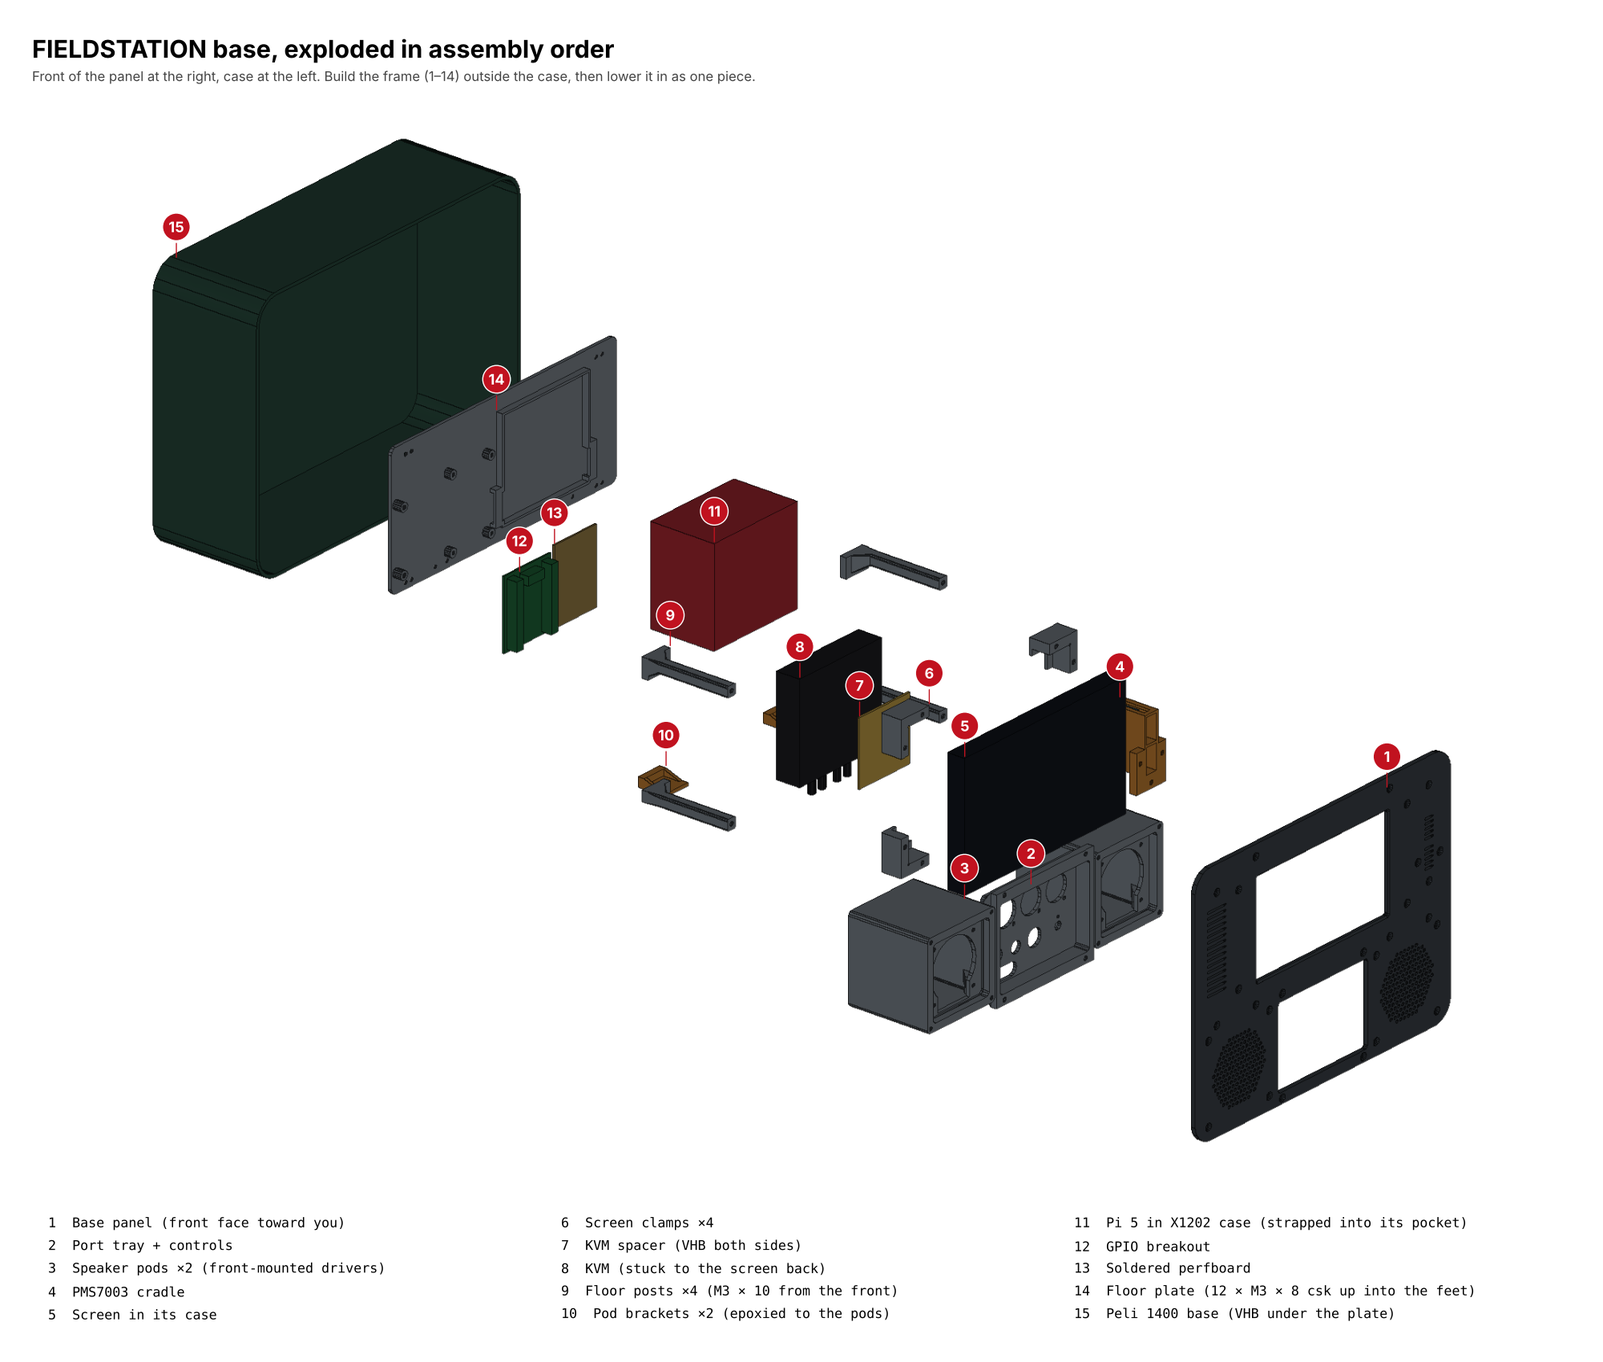
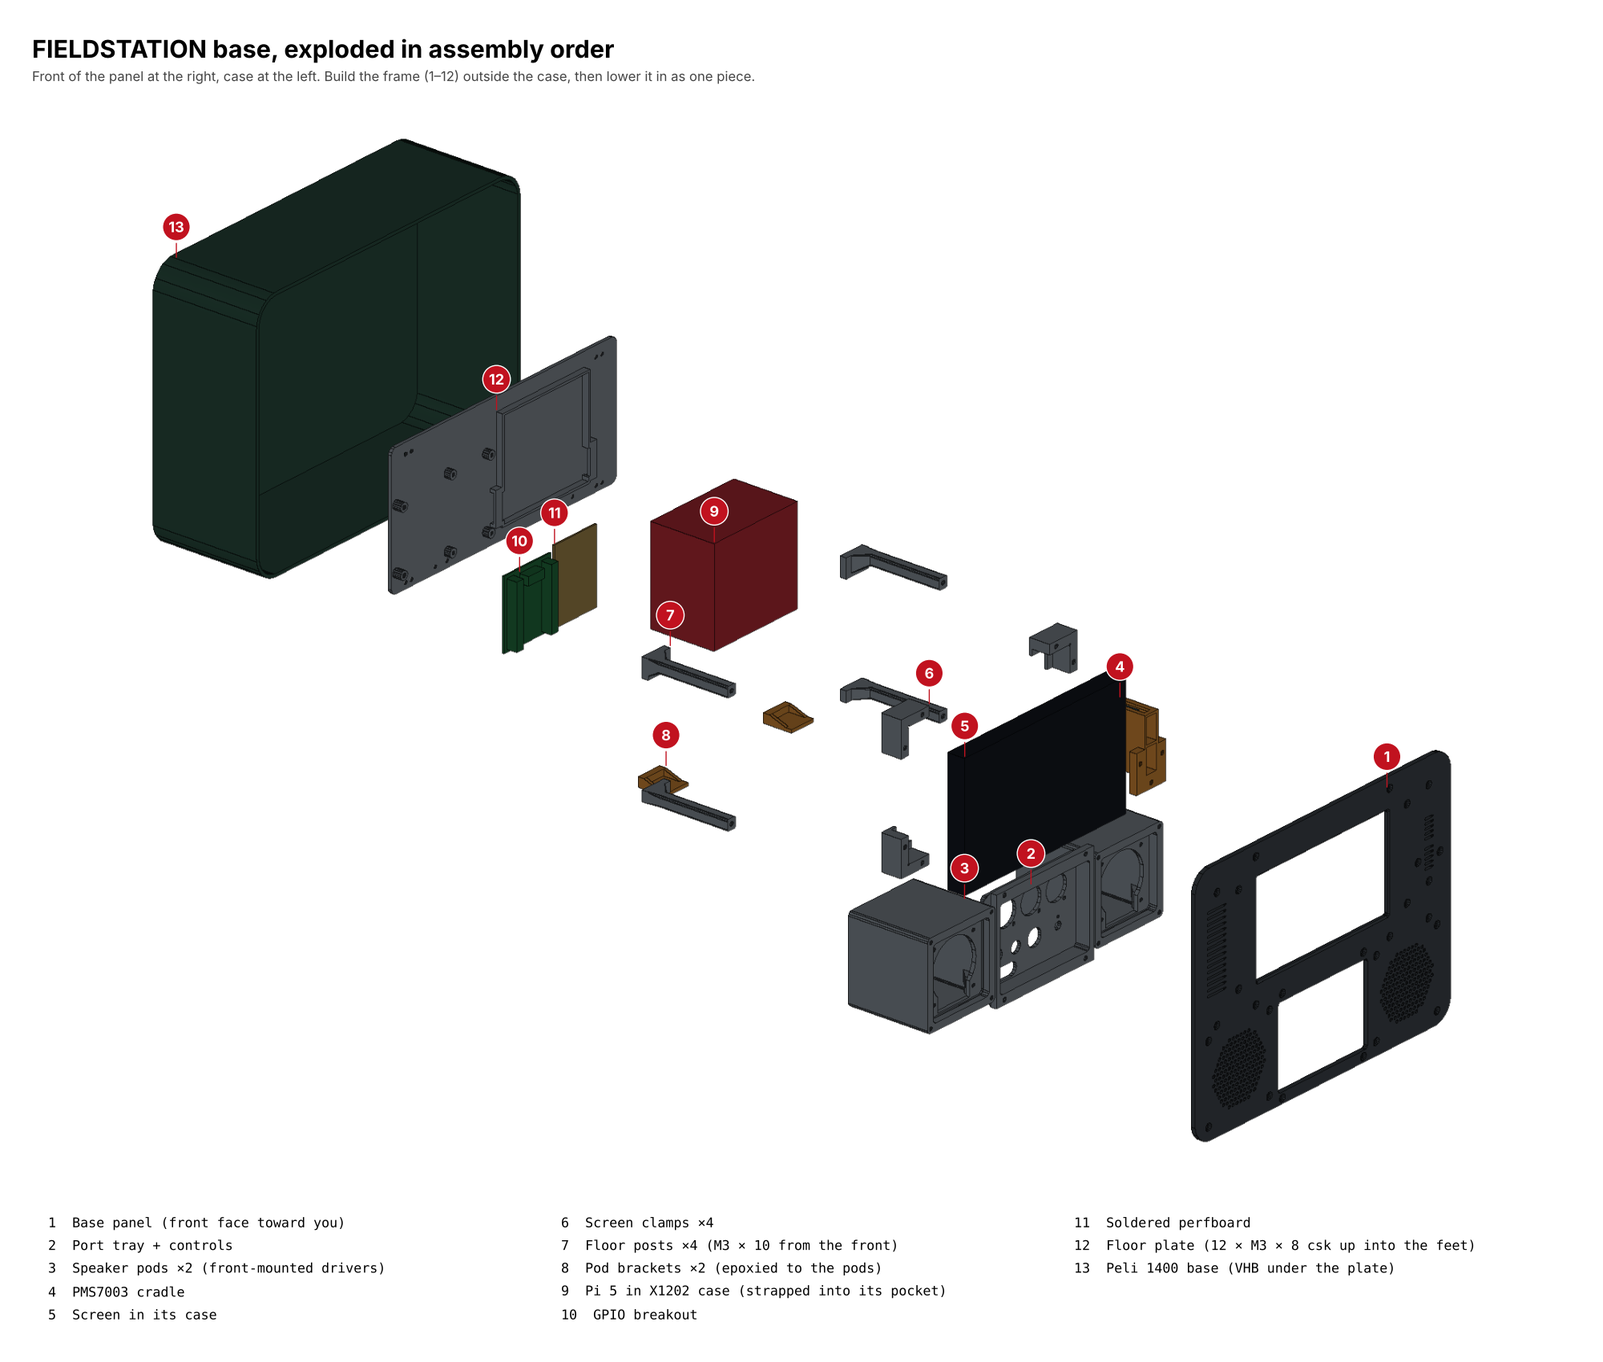
Drop the KVM from the build
The StarTech KVM didn't fit, so it's out: removed from the clash check,
drawings and renders; the KVM spacer is off plate B5; README and the
placement sheet no longer mention the KVM mount or remote. The lid's
remote pocket stays as general storage. 0 clashes.

Claude-Session: https://claude.ai/code/session_015Mjdpdd6ef1wmGCnczCrjc

diff --git a/hardware/src/layout_sheet.py b/hardware/src/layout_sheet.py
@@ -1,4 +1,4 @@
-"""Draws ../docs/internal_layout.png: everything behind the base panel, in three views, with the proposed KVM spot."""
+"""Draws ../docs/internal_layout.png: everything behind the base panel, in three views."""
 import matplotlib
 matplotlib.use('Agg')
 import matplotlib.pyplot as plt
@@ -23,10 +23,6 @@ for i,(cx,cy,sx,sy) in enumerate(cl):
     items.append(('screen clamps' if i==0 else None,[x0,y0,T,x1,y1,T+19.7],'#adb5bd',None))
 items.append(('screen HDMI + micro-USB plugs',[SC_X0-42,SC_Y0+26,T+1,SC_X0,SC_Y0+69,T+SC_T],'#1d3557','xx'))
 items.append(('screen cables turning up/back',[SC_X0-48,SC_Y0+26,T+SC_T,SC_X0-14,SC_Y0+97,T+44],'#457b9d','..'))
-KVM=[42,114,25,139,205,48]
-items.append(('KVM (C2-H46), on the screen back',KVM,'#e63946',None))
-items.append(('right-angle HDMI/USB-A plugs',[60,205,25,121,223,48],'#e63946','///'))
-items.append(('host-cable bend + coil',[55,89,25,126,114,48],'#ffb3b8','..'))
 
 LAYERS=[('Layer 1: on the panel (z 4–24)',4,24),('Layer 2: just behind the screen (z 24–50)',24,50),('Layer 3: on the case floor (z 50–91)',50,91)]
 fig=plt.figure(figsize=(17,14))
@@ -45,12 +41,8 @@ for i,(title,z0,z1) in enumerate(LAYERS):
             ax.text((bx[0]+bx[3])/2,(bx[1]+bx[4])/2,'%s\nz %.0f–%.0f'%(lab,bx[2],bx[5]),ha='center',va='center',fontsize=8)
         elif lab and h:
             ax.text((bx[0]+bx[3])/2,(bx[1]+bx[4])/2,lab,ha='center',va='center',fontsize=7,color='#9d0208')
-    if i==0: ax.text(PK_CX,PK_CY-PK_H/2+4,'port pocket (USB-C socket = PC2 in)',ha='center',fontsize=7)
-    if i==1:
-        ax.annotate('PC2 USB-C → back of the\npocket USB-C socket',xy=(PK_CX,PK_CY+18.5),xytext=(150,40),fontsize=8,arrowprops=dict(arrowstyle='->',color='r'))
-        ax.annotate('PC1 HDMI + USB-A → Pi\n(micro-HDMI adapter)',xy=(160,150),xytext=(160,70),fontsize=8,arrowprops=dict(arrowstyle='->',color='r'))
-        ax.annotate('console edge: HDMI → screen,\nUSB-A → keyboard cable',xy=(90,214),xytext=(150,218),fontsize=8,arrowprops=dict(arrowstyle='->',color='r'))
-# section through the stack at x = XS (screen, KVM, breakout, perfboard, floor plate)
+    if i==0: ax.text(PK_CX,PK_CY-PK_H/2+4,'port pocket',ha='center',fontsize=7)
+# section through the stack at x = XS (screen, breakout, floor plate)
 XS=60.0
 for a in fig.axes[:3]: a.axvline(XS,color='k',ls='-.',lw=0.8); a.text(XS+1,2,'section',fontsize=7)
 ax=fig.add_subplot(gs[1,1])
@@ -62,8 +54,8 @@ for lab,bx,c,h in items:
     ax.add_patch(Rectangle((bx[2],bx[1]),bx[5]-bx[2],bx[4]-bx[1],fc=c if h is None else 'none',ec=c if h else 'k',hatch=h,alpha=0.6 if h is None else 0.9,lw=0.8,label=lab))
 def gap(z0,z1,y,txt):
     ax.annotate('',xy=(z0,y),xytext=(z1,y),arrowprops=dict(arrowstyle='<->',lw=0.8)); ax.text((z0+z1)/2,y+2,txt,ha='center',fontsize=7)
-gap(T+SC_T,25,175,'4'); gap(48,53,150,'5')
-ax.text(12,160,'screen',rotation=90,fontsize=8,va='center'); ax.text(36,160,'KVM',rotation=90,fontsize=8,va='center')
+gap(T+SC_T,FLOOR_Z-3-35,150,'%.0f'%(FLOOR_Z-3-35-T-SC_T))
+ax.text(12,160,'screen',rotation=90,fontsize=8,va='center'); 
 ax.text(70,135,'breakout\n(35 mm space)',fontsize=7,ha='center',va='center')
 ax.text(40,50,'speaker pod',fontsize=8,ha='center'); ax.text(84,140,'floor plate',rotation=90,fontsize=7,va='center')
 ax.set_xlim(-4,FLOOR_Z+4); ax.set_ylim(-4,PH+8); ax.set_aspect('equal')
@@ -76,6 +68,6 @@ d={}
 for hh,ll in zip(h,l):
     if ll and not ll.startswith('_') and ll not in d: d[ll]=hh
 ax.legend(d.values(),d.keys(),loc='center left',bbox_to_anchor=(1.02,0.5),fontsize=9,title='Behind the base panel')
-fig.suptitle('FieldStation base: everything behind the panel, layer by layer\n(bounding boxes; the clash check uses the real shapes. Remote button lives in the lid’s magnetic tray.)',fontsize=13)
+fig.suptitle('FieldStation base: everything behind the panel, layer by layer\n(bounding boxes; the clash check uses the real shapes.)',fontsize=13)
 fig.tight_layout(rect=[0,0,1,0.95]); fig.savefig('../docs/internal_layout.png',dpi=100)
 print('wrote ../docs/internal_layout.png')

diff --git a/hardware/src/case_render.py b/hardware/src/case_render.py
@@ -41,10 +41,6 @@ po=None
 for n in F['POSTS']:
     m=F['build_post'](n).mirror([0,0,1]).translate([0,0,FLOOR_Z-F['FLOOR_PAD']]); po=m if po is None else po+m
 parts['Floor posts ×4']=(po,PLA,3)
-parts['KVM spacer (VHB both sides)']=(box(67,125,T+F['SC_T']+1.1,127,185,T+F['SC_T']+3.1),FOAM,4)
-kvm=box(42,114,25,139,205,48)
-for x in (70,82,100,112): kvm=kvm+Manifold.cylinder(18,3.2,3.2,16).rotate([90,0,0]).translate([x,114,36.5])   # host cables (stubs)
-parts['KVM (C2-H46)']=(kvm,KVM,5)
 parts['Pi 5 in X1202 case']=(box(145,105,FLOOR_Z-3-62.75,145+98.75,105+90.2,FLOOR_Z-3),PI,6)
 bo=FP['BO']; zb=FLOOR_Z-3-FP['BO_BOSS_H']
 brk=box(bo[0],bo[1],zb-1.6,bo[2],bo[3],zb)+box(bo[0]+3,bo[1]+3,zb-1.6-10,bo[0]+11,bo[3]-3,zb-1.6)+box(bo[2]-11,bo[1]+3,zb-1.6-10,bo[2]-3,bo[3]-3,zb-1.6)+box(bo[0]+18,bo[3]-12,zb-1.6-9,bo[2]-18,bo[3]-4,zb-1.6)
@@ -100,10 +96,10 @@ ax=fig.add_axes([0.02,0.07,0.96,0.44]); ax.imshow(img2); ax.set_axis_off()
 ax.set_title('Exploded, front to back in assembly order (panel at the front, case at the back)',fontsize=14,loc='left',color='#1d2124')
 labels_column(ax,img2,proj2,anch2,top=True)
 steps=("BUILD THE FRAME OUTSIDE THE CASE  1 Inserts into every printed part (two under each post foot and pod-bracket foot) · 2 Epoxy a bracket to each pod body\n"
-       "   3 On the panel's back: pods, port tray + controls, PMS7003 cradle, screen + clamps, posts (M3 × 10 from the front) · 4 Spacer + KVM onto the screen back (VHB)\n"
+       "   3 On the panel's back: pods, port tray + controls, PMS7003 cradle, screen + clamps, posts (M3 × 10 from the front)\n"
        "   5 Floor plate pieces epoxied together, laid on the feet and screwed on from underneath (12 × M3 × 8 csk) · 6 Pi, breakout, perfboard onto the plate; wire it all\n"
        "   7 VHB on the plate's underside, Primer 94 on the case floor, lower the whole frame into the base")
 fig.text(0.02,0.02,steps,fontsize=11,family='monospace',color='#1d2124',linespacing=1.6)
 fig.text(0.02,0.985,'FIELDSTATION — base assembly in the Peli 1400',fontsize=20,fontweight='bold',color='#1d2124',va='top')
-fig.text(0.02,0.968,'Parts from the CAD model; the Pi, KVM, boards and screen are shown as their measured outlines. The case shell is approximate.',fontsize=11,color='#555',va='top')
+fig.text(0.02,0.968,'Parts from the CAD model; the Pi, boards and screen are shown as their measured outlines. The case shell is approximate.',fontsize=11,color='#555',va='top')
 plt.savefig('../docs/case_assembly.png',facecolor='white'); print('saved')

diff --git a/hardware/src/exploded_render.py b/hardware/src/exploded_render.py
@@ -5,7 +5,6 @@ ORDER=[('Base panel',-270,0,'Base panel (front face toward you)'),
        ('Port tray',0,0,'Port tray + controls'),('Speaker pods ×2',0,0,'Speaker pods ×2 (front-mounted drivers)'),
        ('PMS7003 cradle',0,0,'PMS7003 cradle'),('PMS7003 + adapter board',0,0,None),
        ('Screen (7" in case)',0,10,'Screen in its case'),('Screen clamps ×4',55,20,'Screen clamps ×4'),
-       ('KVM spacer (VHB both sides)',95,35,'KVM spacer (VHB both sides)'),('KVM (C2-H46)',130,45,'KVM (stuck to the screen back)'),
        ('Floor posts ×4',205,25,'Floor posts ×4 (M3 × 10 from the front)'),
        ('Pod brackets ×2 (epoxied to the pods)',245,10,'Pod brackets ×2 (epoxied to the pods)'),
        ('Pi 5 in X1202 case',300,80,'Pi 5 in X1202 case (strapped into its pocket)'),
@@ -30,7 +29,7 @@ for i,(k,pt) in enumerate(num):
     ax.annotate(str(k),xy=q,xytext=(tx,ty),ha='center',va='center',fontsize=13,weight='bold',color='white',
                 bbox=dict(boxstyle='circle,pad=0.35',fc='#c1121f',ec='white'),arrowprops=dict(arrowstyle='-',lw=1,color='#c1121f'))
 fig.text(0.02,0.975,'FIELDSTATION base, exploded in assembly order',fontsize=22,weight='bold',va='top')
-fig.text(0.02,0.95,'Front of the panel at the right, case at the left. Build the frame (1–14) outside the case, then lower it in as one piece.',fontsize=12,color='#444',va='top')
+fig.text(0.02,0.95,'Front of the panel at the right, case at the left. Build the frame (1–12) outside the case, then lower it in as one piece.',fontsize=12,color='#444',va='top')
 cols=3; per=int(np.ceil(len(legend)/cols))
 for ci in range(cols):
     fig.text(0.03+ci*0.32,0.11,'\n'.join(legend[ci*per:(ci+1)*per]),fontsize=12,va='top',family='monospace',linespacing=1.7)

diff --git a/hardware/src/placement_sheet.py b/hardware/src/placement_sheet.py
@@ -51,7 +51,7 @@ rows=[(1,'Screen in its case','Behind the 156 × 88 mm window, held by the corne
       (4,'Port tray','Recessed pocket between the pods. 4 × M3 × 8. Detail below','B3 / B3a'),
       (5,'PMS7003 cradle','Behind the AIR louvres, snout to the panel. 3 × M3 × 8','B3 / B3a'),
       (6,'Floor posts ×4','2 top corners, 2 beside the pods. M3 × 10 from the front; VHB feet','B3'),
-      (7,'TEMP column','Vent slots; KVM remote button holder goes here','B2 (pending)'),
+      (7,'TEMP column','Vent slots only','B1'),
       (8,'Panel seam','Halves epoxied at the dovetails; splice strip behind, above the window','B1 + B2')]
 y=0.97
 lg.text(0.0,y,'#',fontsize=10,fontweight='bold',color='#666'); lg.text(0.08,y,'Part',fontsize=10,fontweight='bold',color='#666'); lg.text(0.80,y,'Plate',fontsize=10,fontweight='bold',color='#666')
@@ -65,7 +65,7 @@ lg.text(0.0,0.02,'Dashed blue: mounted behind the panel. Brown squares: posts.\n
 ax=fig.add_axes([0.03,0.25,0.50,0.23]); cx,cy,W,H=F['PK_CX'],F['PK_CY'],F['PK_W'],F['PK_H']
 ax.add_patch(Rectangle((cx-W/2,cy-H/2),W,H,fc='#e9ebe8',ec=INK,lw=1.3))
 labels=[]
-for i,((x,y),t) in enumerate(zip(F['USB'],['USB-A  (to Pi USB 3)','USB-A  (to Pi USB 3)','USB-C  (KVM laptop input)'])):
+for i,((x,y),t) in enumerate(zip(F['USB'],['USB-A  (to Pi USB 3)','USB-A  (to Pi USB 3)','USB-C'])):
     ax.add_patch(Rectangle((x-13,y-15.5),26,31,fc=PART,ec='none')); ax.add_patch(Circle((x,y),12.1,fc='#6b7178',ec='none'))
     for dx,dy in [(-9.5,12),(9.5,-12)]: ax.add_patch(Circle((x+dx,y+dy),1.65,fc='white',ec='none'))
     ax.text(x,y,['A','A','C'][i],ha='center',va='center',color='white',fontsize=11,fontweight='bold')

diff --git a/hardware/src/lid.py b/hardware/src/lid.py
@@ -18,7 +18,7 @@ MAG_S=4.56; MAG_P=4.56+0.2            # magnet cubes, pocket size
 D_POCKET=2.1; D_PROUD=MAG_S-D_POCKET   # door pocket depth; cube stands proud under the door
 BLOCK_POCKET=D_PROUD+MAG_S+0.1
 MAGS=[(DOOR_X0+9,DOOR_Y0+8.5),(DOOR_X1-9,DOOR_Y0+8.5),(DOOR_X0+9,DOOR_Y1-8.5),(DOOR_X1-9,DOOR_Y1-8.5)]
-# open pocket for the KVM remote: the hinge-strip cell left of the cable rib, exposed through the overlay
+# open storage pocket: the hinge-strip cell left of the cable rib, exposed through the overlay
 REM_X0,REM_X1,REM_Y0,REM_Y1,REM_R=9.75,77.75,172.0,214.0,4.0
 OVL_STRETCH=(PW/2-3.0,1.3)          # left overlay half lengthened 1.3 mm next to the seam so its holes meet the cradle's (measured)
 NOTCH=( 245.0, DOOR_Y0 )               # finger notch, centred between the two overlay screws below it
@@ -78,7 +78,7 @@ def build_overlay():
     p=p-rrect(PASS_W,PASS_H,PASS_H/2-0.01,CABLE_X,PASS_Y)          # USB-A plug pass-through
     p=p-rrect(DOOR_X1-DOOR_X0,DOOR_Y1-DOOR_Y0,DOOR_R,(DOOR_X0+DOOR_X1)/2,(DOOR_Y0+DOOR_Y1)/2)   # tray door opening
     p=p-circ(18,NOTCH[0],NOTCH[1]-1.0)                              # finger notch
-    p=p-rrect(REM_X1-REM_X0,REM_Y1-REM_Y0,REM_R,(REM_X0+REM_X1)/2,(REM_Y0+REM_Y1)/2)   # KVM remote pocket opening
+    p=p-rrect(REM_X1-REM_X0,REM_Y1-REM_Y0,REM_R,(REM_X0+REM_X1)/2,(REM_Y0+REM_Y1)/2)   # open storage pocket
     o=Manifold.extrude(p,OT)
     for x,y in insert_points():
         o=o-Manifold.cylinder(1.95,1.7,3.45,SEG).translate([x,y,OT-1.95+0.001])-Manifold.cylinder(OT+2,1.7,1.7,SEG).translate([x,y,-1])

diff --git a/hardware/src/build_all.py b/hardware/src/build_all.py
@@ -28,7 +28,6 @@ clamp=C['c'].mirror([0,0,1]).translate([0,0,C['H']])
 for i in range(1,5): parts[f'screen_clamp_{i}']=tm(clamp)
 parts['pms7003_cradle']=tm(S['body'])   # placed mirrored in the base (board toward the screen); that mirror and the export reflection cancel
 parts['panel_splice']=tm(Manifold.cube([40,10,2]))
-parts['kvm_spacer']=tm(Manifold.cube([60,60,2.0]))   # VHB both sides: KVM to the back of the screen
 FPm=ns('floorplate.py',"if __name__"); _fp=FPm['build_floor_plate'](); _fa,_fb=FPm['split_plate'](_fp)
 parts['floor_plate']=tm(_fa.mirror([0,0,1])); parts['floor_plate_strip']=tm(_fb.mirror([0,0,1]))   # glued face down
 for _k in ('L','R'): parts['pod_bracket_'+_k]=tm(FPm['build_pod_bracket'](_k).mirror([0,0,1]))      # foot on the bed
@@ -81,7 +80,7 @@ plate('speaker_pods_complete_x2.3mf',[('pod_body_L',c-85,c+5,0),('pod_body_R',c+
 plate('B3a_port_tray_and_sensor.3mf',[('port_tray',M+20,M+60,0),('pms7003_cradle',M+20+w('port_tray')+25,M+60,0)])
 
 # floor plate on its own (Pi pocket, perfboard bosses; breakout bosses to come)
-plate('B5_floor_plate.3mf',[('floor_plate',10,70,0),('floor_plate_strip',10,200,90),('kvm_spacer',150,4,0)])
+plate('B5_floor_plate.3mf',[('floor_plate',10,70,0),('floor_plate_strip',10,200,90)])
 
 # panel halves on their own (pods and baffles already printed); the seam splice strip rides with the left half
 plate('B1p_base_panel_left_only.3mf',[('base_panel_L',M,M+12,0),('panel_splice',M+w('base_panel_L')+10,M+20,90)])

diff --git a/hardware/src/check.py b/hardware/src/check.py
@@ -20,9 +20,6 @@ parts['air']=_mv(_air)
 # screen plugs on its left edge (measured from a photo): micro-USB 30-39 mm and HDMI 47-65 mm up from the
 # screen's bottom edge, ~40 mm long straight plugs, then the cables turn up/back beside the screen
 parts['screen_plugs']=box(SC_X0-42,SC_Y0+26,T+1,SC_X0,SC_Y0+69,T+SC_T)+box(SC_X0-48,SC_Y0+26,T+SC_T,SC_X0-14,SC_Y0+97,T+44)
-# KVM is stuck to the back of the screen: VHB 1.1 + 2 mm printed spacer + VHB 1.1 brings it to z 25, clear of the clamps (to z 23.7)
-parts['kvm_spacer']=box(67,125,T+SC_T+1.1,127,185,T+SC_T+3.1)
-parts['kvm']=box(42,114,25,139,205,48)+box(60,205,25,121,223,48)+box(55,89,25,126,114,48)   # body, right-angle console plugs, host-cable bend
 for n in POSTS: parts['post'+n]=build_post(n).mirror([0,0,1]).translate([0,0,FLOOR_Z-FLOOR_PAD])
 # Pi case on floor, right half behind screen; breakout + 70 x 50 soldered perfboard left half
 # perfboard: on the floor plate (3 mm) + 6 mm bosses, 1.6 mm board, 15 mm kept clear above it for the soldered wires

diff --git a/hardware/README.md b/hardware/README.md
@@ -15,7 +15,7 @@ Where each part goes: [docs/placement_sheet.png](docs/placement_sheet.png). What
 - **Base panel** (302.5 × 228.8 × 4 mm, sits 8 mm below the rim): 7" Waveshare HDMI LCD (H) in its case behind a 156 × 88 mm window; TEMP column on the left, vent slots only, no sensor (the screen's HDMI and micro-USB plugs come out of its left edge into the space behind it); AIR column (Plantower PMS7003 behind louvres) on the right; two Dayton ND65-4 speaker pods along the bottom with a recessed port pocket between them.
 - **Port pocket** (106 × 76 mm, floor 18 mm deep so nothing touches the keyboard): 2 × USB-A and 1 × USB-C D-size sockets on top; power button, 12 V DC jack, audio button and volume pot below; a 24 × 12 mm slot at the very bottom for the keyboard cable, in line with the lid's cable slot.
 - **Behind the panel:** Pi 5 in a Geekworm X1202-C1 case (UPS, 4 × 18650) on the case floor behind the screen, with the GPIO breakout and a soldered perfboard beside it, all on a printed floor plate.
-- **Lid:** wedge cradle that levels the trackball keyboard (286 × 149 mm), a 2.8 mm overlay that finishes flush with the keys, a USB-A pass-through for the keyboard cable, a magnetic accessory tray along the hinge, and an open pocket at the hinge's left end for the KVM remote.
+- **Lid:** wedge cradle that levels the trackball keyboard (286 × 149 mm), a 2.8 mm overlay that finishes flush with the keys, a USB-A pass-through for the keyboard cable, a magnetic accessory tray along the hinge, and an open storage pocket at the hinge's left end.
 - **Back of the case:** two folding kickstands that stop at a 15° lean.
 
 ![Port pocket](docs/port_pocket.png) ![Front panel](docs/placement_sheet.png) ![Lid](docs/lid_layout_render.png)
@@ -38,10 +38,10 @@ Bambu Studio 3MF plates for a Bambu Lab P1S (256 mm bed). Every part is already 
 | B3 | Port tray, four floor posts, four screen clamps, PMS7003 cradle |
 | B3a | Port tray and PMS7003 cradle (the same parts as on B3, for printing them first) |
 | B4 | Two kickstand hinge plates and legs |
-| B5 | Floor plate in two pieces (main + right strip, dovetailed) covering the whole flat floor: post and pod-bracket screw holes, Pi case pocket with two strap loops, insert bosses for the perfboard (6 mm) and the GPIO breakout (two 8.2 mm bosses); 60 × 60 × 2 mm KVM spacer |
+| B5 | Floor plate in two pieces (main + right strip, dovetailed) covering the whole flat floor: post and pod-bracket screw holes, Pi case pocket with two strap loops, insert bosses for the perfboard (6 mm) and the GPIO breakout (two 8.2 mm bosses) |
 | speaker_pods_complete_x2 | Both complete pods (bodies and baffles) on one plate, if you print the pods separately from B1/B2 |
 
-The KVM remote button lives in the open pocket at the left end of the lid's hinge strip; its cable runs through the keyboard cable slots. The PMS7003 cradle on B3/B3a is printed mirrored so its board side faces the screen.
+The open pocket at the left end of the lid's hinge strip is spare storage. The PMS7003 cradle on B3/B3a is printed mirrored so its board side faces the screen.
 
 **Settings:** PETG, 0.2 mm layers, 4 walls, textured PEI plate. Use a brim on B3 (the posts are 87 mm tall). The whole set uses about 850–900 g.
 
@@ -83,7 +83,6 @@ The KVM remote button lives in the open pocket at the left end of the lid's hing
 5. **Lid.** The cradle halves can be dry-fitted. Screw the overlay onto the cradle, drop the assembly into the lid so the overlay centres it, then fix it to the lid floor with 1.1 mm VHB, with 3M Primer 94 on the lid side. The cradle height assumes 1.1 mm of tape, so avoid Dual Lock: its extra height would push the trackball against the base panel when the lid closes. The roughly 6 mm gap around the cradle is intentional; it clears the lid's tapered walls and curved floor edge.
 6. **PMS7003 sensor.** Fit the adapter board and Dupont plugs first. The cradle is built for the board lying on the label face (3.5 mm above it), overhanging the inlet face by 6.5 mm and the board end by 9 mm, with the plugs mid-thickness in front of the inlet face, pointing at the panel. The front of the cradle has two chambers split by a rib: the outlet chamber, and an inlet chamber that also holds the plugs. Drop the sensor in from the back, face first, with the board on the side where the sleeve wall is open, feeding the wires out through the slot in the inlet chamber's end wall. Hold it in with a cable tie round the sleeve and over the sensor's back, between the guide ridges. Then seal it so it only breathes through the louvres: foam gasket round the lip, and foam or putty in the wire slot and the small notch where the header pins pass. See [docs/pms7003_cradle.png](docs/pms7003_cradle.png).
 6b. **Pi.** Drop the Pi case into its pocket and hold it down with a 20 mm hook-and-loop strap: thread it under the loop on the left, through the finger gap in the pocket wall, across the front of the Pi case in its bottom third (clear of the GPIO ribbon), out through the right-hand gap and under the right loop. Keep it clear of the Pi's ports.
-7. **KVM.** Stick the 2 mm spacer (B5) to the back of the screen case with VHB, centred about 40 mm in from the screen's left edge and 50 mm down from its top, then stick the KVM onto it with its console edge (HDMI, USB-A) facing the top of the case and its built-in cables facing down. The spacer lifts it clear of the top-left screen clamp. Use right-angle HDMI and USB-A plugs on the console side, and coil the spare host cable over the perfboard, not the breakout. See [docs/internal_layout.png](docs/internal_layout.png).
 8. **Kickstands.** Glue the hinge plates (35 × 40 mm) to flat areas with the pivot about 75 mm up the back of the case, one each side.
 
 ## Source (`src/`)
@@ -114,5 +113,6 @@ The case interior dimensions come from measurements of the real Peli 1400: 99 mm
 
 ## Still to do
 
-- When the KVM arrives: check its remote puck passes the 24 × 12 mm keyboard slot in the port tray and the 24 × 14 mm lid slot. If not, widen KB_PASS in frame.py and reprint the tray; open the lid slot by hand.
+- The StarTech KVM was dropped from the build (it didn't fit), so the KVM mount, spacer and remote holder are gone.
+
 
